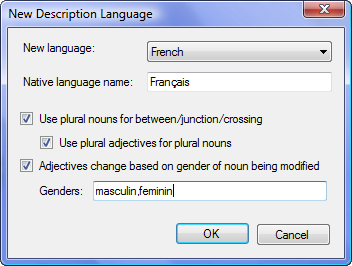
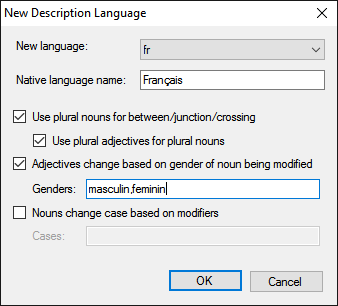
website updates.

diff --git a/doc/userdocs/WebSite/tools.htm b/doc/userdocs/WebSite/tools.htm
@@ -1,0 +1,97 @@
+<!DOCTYPE html PUBLIC "-//W3C//DTD XHTML 1.0 Transitional//EN" "http://www.w3.org/TR/xhtml1/DTD/xhtml1-transitional.dtd">
+<html dir="ltr" xmlns="http://www.w3.org/1999/xhtml">
+
+<!-- #BeginTemplate "master.dwt" -->
+
+<head>
+    <meta http-equiv="Content-Type" content="text/html; charset=utf-8" />
+    <!-- #BeginEditable "doctitle" -->
+    <title>Donate</title>
+    <style type="text/css">
+        .auto-style1 {
+            font-family: Arial, Helvetica, sans-serif;
+        }
+    </style>
+    <!-- #EndEditable -->
+    <link rel="shortcut icon" href="http://purplepen.golde.org/favicon.ico" type="image/vnd.microsoft.icon" />
+    <link href="styles.css" rel="stylesheet" type="text/css" />
+</head>
+
+
+<body>
+
+    <div id="outer">
+        <img alt="Purple Pen" src="title.png" class="logo" />
+        <!-- #BeginEditable "body" -->
+        <ul id="navlist">
+            <li>
+                <a href="default.htm">Home</a>
+            </li>
+            <li>
+                <a href="news.htm">News</a>
+            </li>
+            <li>
+                <a href="about.htm">About</a>
+            </li>
+            <li>
+                <a href="download.htm">Download</a>
+            </li>
+            <li>
+                <a href="support.htm">Support</a>
+            </li>
+            <li>
+                <a href="contribute.htm">Contribute</a>
+            </li>
+            <li><a id="current" href="tools.htm">Tools</a></li>
+            <li><a href="donate.htm">Donate</a></li>
+        </ul>
+        <div id="maindiv">
+            <h2>Tools</h2>
+            <p>This page collects some other useful computer tools related to maps and orienteering.</p>
+            <h3>Ocad2Png</h3>
+            <p>
+                Ocad2Png is a Windows command line tool that creates a PNG bitmap file from an OCAD file, or
+                a portion of it. Options allow determining the size of the output, which part of the OCAD file to
+                use, whether to include templates/background maps, and other options.
+            </p>
+            <p>
+                Ocad2Png is useful for applications such as seeing where maps have changed, or automating various
+                workflows involving OCAD maps.
+            </p>
+            <p>
+                To use the tool, download and run the setup program. Once complete, open a Windows command prompt and
+                type "Ocad2Png". You should get instructions on all the command line options.
+            </p>
+            <p>
+                <a href="downloads/ocad2png100.exe">
+                    <img style="border: 0" id="img1" src="button29.jpg" height="41" width="205" alt="Download Now!" onmouseover="FP_swapImg(0,0,/*id*/'img1',/*url*/'button2A.jpg')" onmouseout="FP_swapImg(0,0,/*id*/'img1',/*url*/'button29.jpg')" onmousedown="FP_swapImg(0,0,/*id*/'img1',/*url*/'button2B.jpg')" onmouseup="FP_swapImg(0,0,/*id*/'img1',/*url*/'button2A.jpg')" /><!-- MSComment="ibutton" fp-style="fp-btn: Metal Capsule 3; fp-font-size: 14; fp-preload: 0" fp-title="Download Now!" -->
+                </a>
+            </p>
+        </div>
+
+        <!-- #EndEditable -->
+        <br />
+    </div>
+
+    <script type="text/javascript">
+var uservoiceJsHost = ("https:" == document.location.protocol) ? "https://uservoice.com" : "http://cdn.uservoice.com";
+document.write(unescape("%3Cscript src='" + uservoiceJsHost + "/javascripts/widgets/tab.js' type='text/javascript'%3E%3C/script%3E"))
+    </script>
+    <script type="text/javascript">
+UserVoice.Tab.show({
+  key: 'purplepen',
+  host: 'purplepen.uservoice.com',
+  forum: 'general',
+  alignment: 'right', /* 'left', 'right' */
+  background_color:'#f00',
+  text_color: 'white', /* 'white', 'black' */
+  hover_color: '#06C',
+  lang: 'en' /* 'en', 'de', 'nl', 'es', 'fr' */
+})
+    </script>
+
+</body>
+
+<!-- #EndTemplate -->
+
+</html>

diff --git a/doc/userdocs/WebSite/translating/TranslatingSymbolicDescriptions.htm b/doc/userdocs/WebSite/translating/TranslatingSymbolicDescriptions.htm
@@ -40,7 +40,7 @@ Description Texts&quot; is available only if Ctrl and Shift are both held down. 
 <h2>Adding a new language</h2>
 <p>Select the &quot;Add Description Language...&quot; menu item. A dialog window appears 
 to get information about the language that you wish to translate to.</p>
-<p><img alt="screenshot 2" src="screenshot2.png" width="352" height="266" /></p>
+<p><img alt="screenshot 2" src="screenshot2.png"  /></p>
 <p>In the new language drop-down, select the language that you wish to translate 
 to.</p>
 <p>In the &quot;Native language name&quot; text area, type the name of the language, in 
@@ -82,12 +82,19 @@ gender, and adjectives change their form depending on the gender of the noun. If
 this is the case in the language you are translating, check this box. If you 
 check this, for each symbol that can appear in column D, you should set the 
 gender of that word. For adjectives and descriptive phrases that can appear in 
-columns C, E, and G, you can enter different forms for each gender, if 
+columns C, E, F, and G, you can enter different forms for each gender, if 
 necessary.</p>
 <p>If you check this box, you must fill in a list of genders (separated by 
 commas) in the text box below.</p>
+    <h3>Nouns change case based on modifiers</h3>
+    <p>In some lanuages, the forms of nouns (used in column D primarily) can change form based on some kinds of modifiers in other columns. For example:</p>
+    <p><img src="screenshot10.png" /></p>
+    <p>In English, this would &quot;North side of small gully&quot;. The text &quot;small gully&quot; does not change because of the modifier &quot;North side&quot;. In Polish, however, this should be "Północna strona suchego rowu". The 
+        noun of the feature in column D (normally &quot;suchy row&quot;) changes to the genitive case due to the modifier in column G. This is the reverse of the change that occur for noun genders (above); in this case the adjective and modifiers change the form of the noun, instead of the noun changing the form of the adjectives.</p>
+    <p>If your language requires this, check this box and fill in a list of noun cases (separated by commas) in the text box below. You only need to include cases that will actually be required by your translation. The first case must be the default case, which is used if there are no modifying symbols in other columns.</p>
+    <h3>Example</h3>
 <p>So, for example, for French, the dialog would be filled out as follows:</p>
-<p><img alt="screenshot 5" src="screenshot5.png" width="352" height="266" /></p>
+<p><img alt="screenshot 5" src="screenshot5.png"  /></p>
 <p>Once you press OK, your new language is added. It is initialized with the 
 English text for each symbol.</p>
 <h2>Entering translated text for symbols</h2>
@@ -113,7 +120,7 @@ you to enter the text for the symbol, possibly included plural or gender forms.
 For example:</p>
 <p><img alt="screenshot 7" src="screenshot7.png" width="490" height="364" /></p>
 <p>In this window, enter the text in the last column of the grid. If applicable, 
-be sure to set the gender of the word in the dropdown at the bottom of the 
+be sure to set the gender or case of the word in the dropdown at the bottom of the 
 window.</p>
 <p>See the Appendix for information with detailed information about different 
 symbol types and how they are combined to make the full textual description.</p>

diff --git a/doc/userdocs/WebSite/news.htm b/doc/userdocs/WebSite/news.htm
@@ -43,9 +43,19 @@
 <a href="support.htm">Support</a></li>
 <li>
 <a href="contribute.htm">Contribute</a></li>
+<li><a href="tools.htm">Tools</a></li>
 <li><a href="donate.htm">Donate</a></li>
 </ul>
 <div id="maindiv">
+
+
+<h2>May 23, 2016</h2>
+    <p class="style1">
+        Version 2.6.2 is released. This release adds support for IOF XML version 3, and has other enhancements for 
+        XML export. It also changes the behavior to better support high resolution displays.
+        You can see
+        <a href="change_summary.htm">the full list of fixes and features here</a>. Download it <a href="download.htm">from the download page</a>.
+    </p>
 
 <h2>Feb 22, 2016</h2>
     <p class="style1">

diff --git a/doc/userdocs/WebSite/change_summary.htm b/doc/userdocs/WebSite/change_summary.htm
@@ -29,6 +29,10 @@
         <p>IOF XML export (both versions 2 and 3) now output real-world coordinates of controls
         when used with a geo-referenced OCAD map.</p>
     </li>
+    <li>
+        <p>New support for text control descriptions to enable languages such as Polish to include nouns that change case
+        based on modifiers in other columns.</p>
+    </li>
 </ul>
 <h3>Bug fixes</h3>
     <ul>

diff --git a/doc/userdocs/WebSite/download.htm b/doc/userdocs/WebSite/download.htm
@@ -72,6 +72,7 @@ function FP_getObjectByID(id,o) {//v1.0
 <li><a id="current" href="download.htm">Download</a></li>
 <li><a href="support.htm">Support</a></li>
 <li><a href="contribute.htm">Contribute</a></li>
+<li><a href="tools.htm">Tools</a></li>
 <li><a href="donate.htm">Donate</a></li>
 </ul>
 <div id="maindiv">

diff --git a/doc/userdocs/WebSite/default.htm b/doc/userdocs/WebSite/default.htm
@@ -54,6 +54,7 @@ function FP_getObjectByID(id,o) {//v1.0
 <li><a href="download.htm">Download</a></li>
 <li><a href="support.htm">Support</a></li>
 <li><a href="contribute.htm">Contribute</a></li>
+<li><a href="tools.htm">Tools</a></li>
 <li><a href="donate.htm">Donate</a></li>
 </ul>
 <div id="maindiv">

diff --git a/doc/userdocs/WebSite/contribute.htm b/doc/userdocs/WebSite/contribute.htm
@@ -25,6 +25,7 @@
 <li><a href="download.htm">Download</a></li>
 <li><a href="support.htm">Support</a></li>
 <li><a id="current" href="contribute.htm">Contribute</a></li>
+<li><a href="tools.htm">Tools</a></li>
 <li><a href="donate.htm">Donate</a></li>
 </ul>
 <div id="maindiv">

diff --git a/doc/userdocs/WebSite/support.htm b/doc/userdocs/WebSite/support.htm
@@ -25,6 +25,7 @@
 <li><a href="download.htm">Download</a></li>
 <li><a id="current" href="support.htm">Support</a></li>
 <li><a href="contribute.htm">Contribute</a></li>
+<li><a href="tools.htm">Tools</a></li>
 <li><a href="donate.htm">Donate</a></li>
 </ul>
 <div id="maindiv">

diff --git a/doc/userdocs/WebSite/about.htm b/doc/userdocs/WebSite/about.htm
@@ -34,6 +34,7 @@
 <li><a href="download.htm">Download</a></li>
 <li><a href="support.htm">Support</a></li>
 <li><a href="contribute.htm">Contribute</a></li>
+<li><a href="tools.htm">Tools</a></li>
 <li><a href="donate.htm">Donate</a></li>
 </ul>
 <div id="maindiv">

diff --git a/doc/userdocs/WebSite/donate.htm b/doc/userdocs/WebSite/donate.htm
@@ -36,6 +36,7 @@
 <a href="support.htm">Support</a></li>
 <li>
 <a href="contribute.htm">Contribute</a></li>
+<li><a href="tools.htm">Tools</a></li>
 <li><a id="current" href="donate.htm">Donate</a></li>
 </ul>
 <div id="maindiv">
